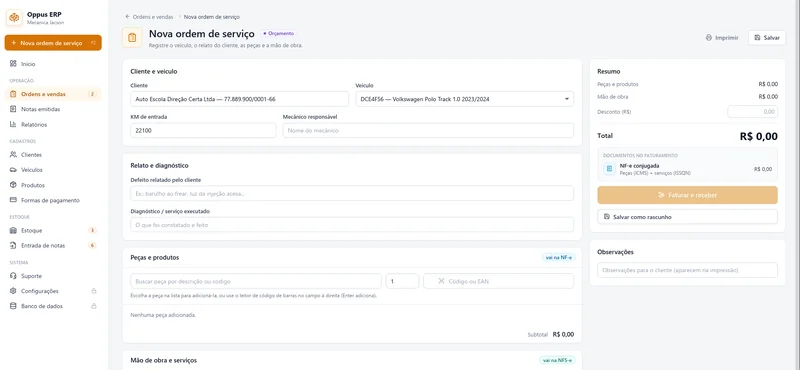
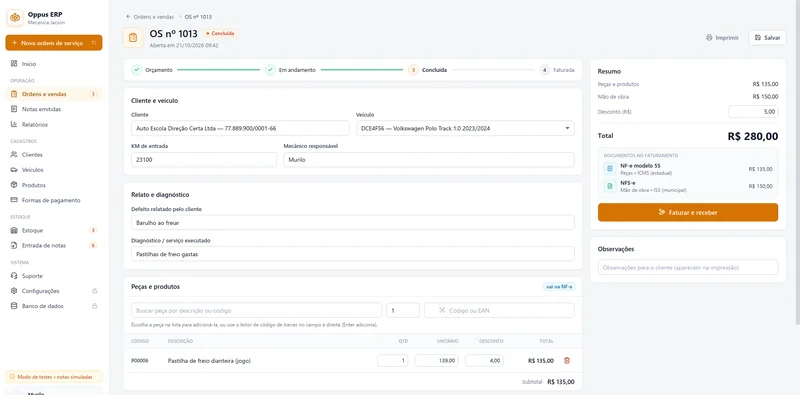
feat(site): print da OS preenchida, com NF-e e NFS-e no faturamento
Troca o print da ordem de serviço vazia pela OS 1013 concluída, que mostra
o quadro de documentos com a NF-e (peças) e a NFS-e (mão de obra). A legenda
e o texto alternativo passam a descrever o que aparece na tela.

diff --git a/index.html b/index.html
@@ -427,11 +427,11 @@
           <figure class="shot shot-main reveal">
             <div class="shot-frame">
               <div class="shot-bar"><img src="favicon.svg" alt="" width="14" height="14"><span>Oppus ERP · Ordem de serviço</span><span class="shot-ctl" aria-hidden="true"><i></i><i></i><i></i></span></div>
-              <div class="shot-body" style="aspect-ratio:1600/741">
-                <img src="assets/img/print-os.webp" srcset="assets/img/print-os-800.webp 800w, assets/img/print-os.webp 1600w" sizes="(min-width: 1280px) 1240px, 92vw" width="1600" height="741" alt="Tela de nova ordem de serviço no Oppus ERP, com cliente e veículo, relato do defeito, peças que vão na NF-e e mão de obra que vai na NFS-e." loading="lazy" decoding="async">
+              <div class="shot-body" style="aspect-ratio:1600/790">
+                <img src="assets/img/print-os.webp" srcset="assets/img/print-os-800.webp 800w, assets/img/print-os.webp 1600w" sizes="(min-width: 1280px) 1240px, 92vw" width="1600" height="790" alt="Ordem de serviço concluída no Oppus ERP: cliente e veículo, relato, peça com desconto, resumo de valores e o quadro de documentos no faturamento com NF-e (peças) e NFS-e (mão de obra)." loading="lazy" decoding="async">
               </div>
             </div>
-            <figcaption><b>02</b>Nova ordem de serviço: cliente e veículo, relato, peças (vão na NF-e) e mão de obra (vai na NFS-e) na mesma tela.</figcaption>
+            <figcaption><b>02</b>Peças e mão de obra na mesma ordem. Ao faturar, o resumo já mostra o que vai na NF-e (peças) e o que vai na NFS-e (mão de obra).</figcaption>
           </figure>
           <figure class="shot shot-main reveal">
             <div class="shot-frame">
